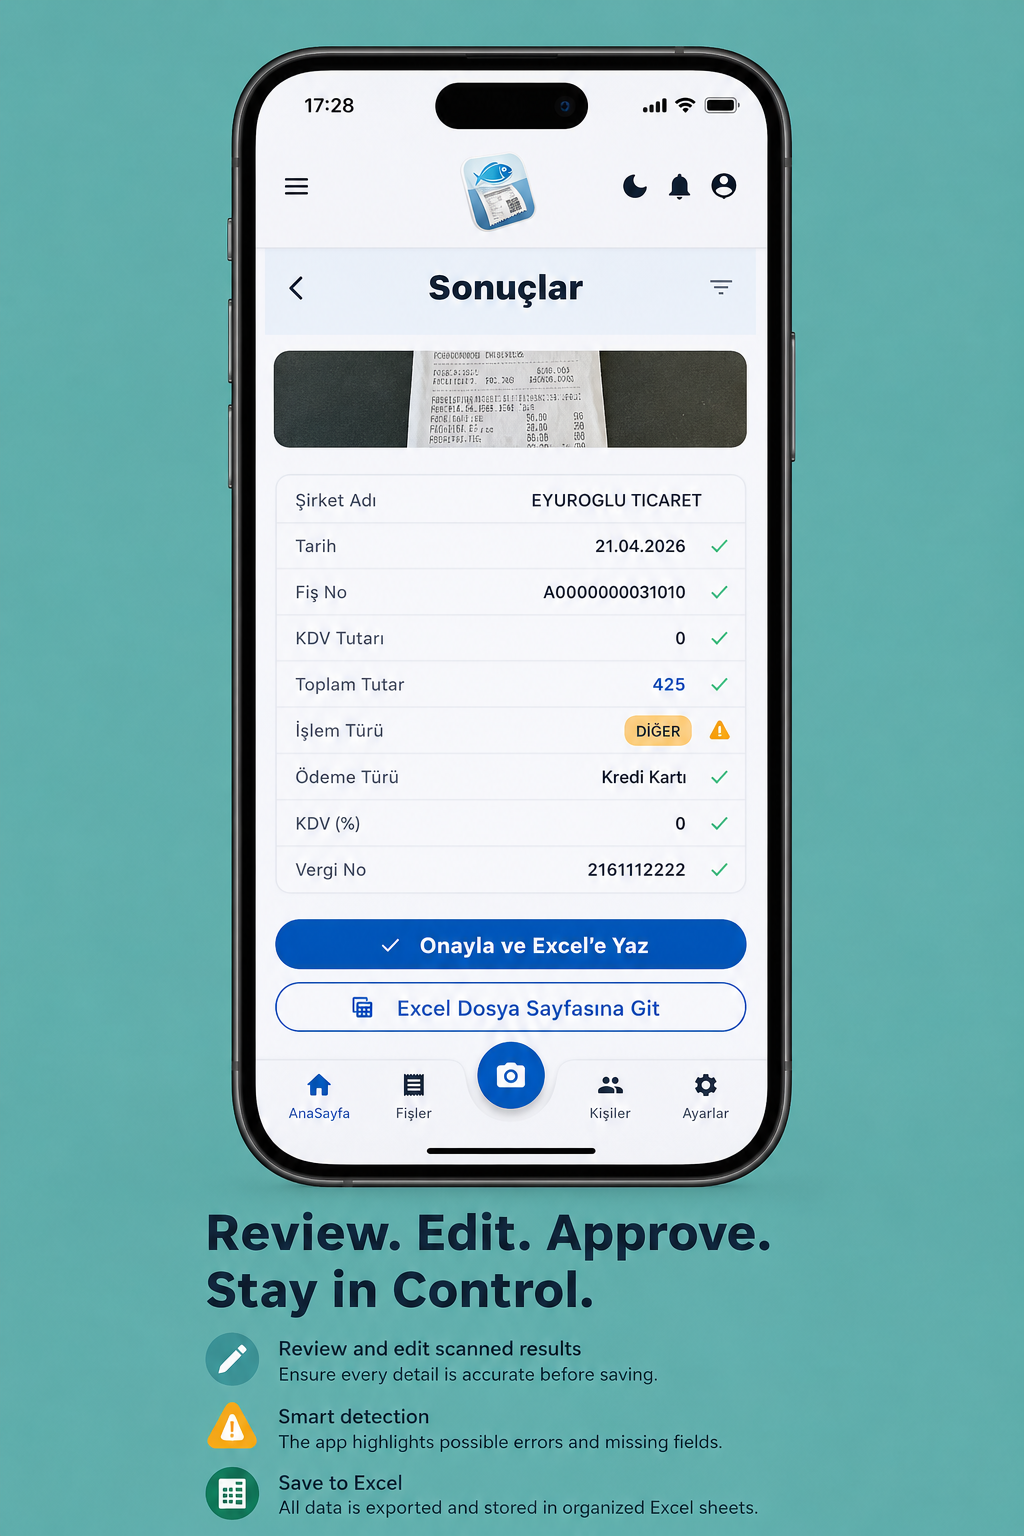
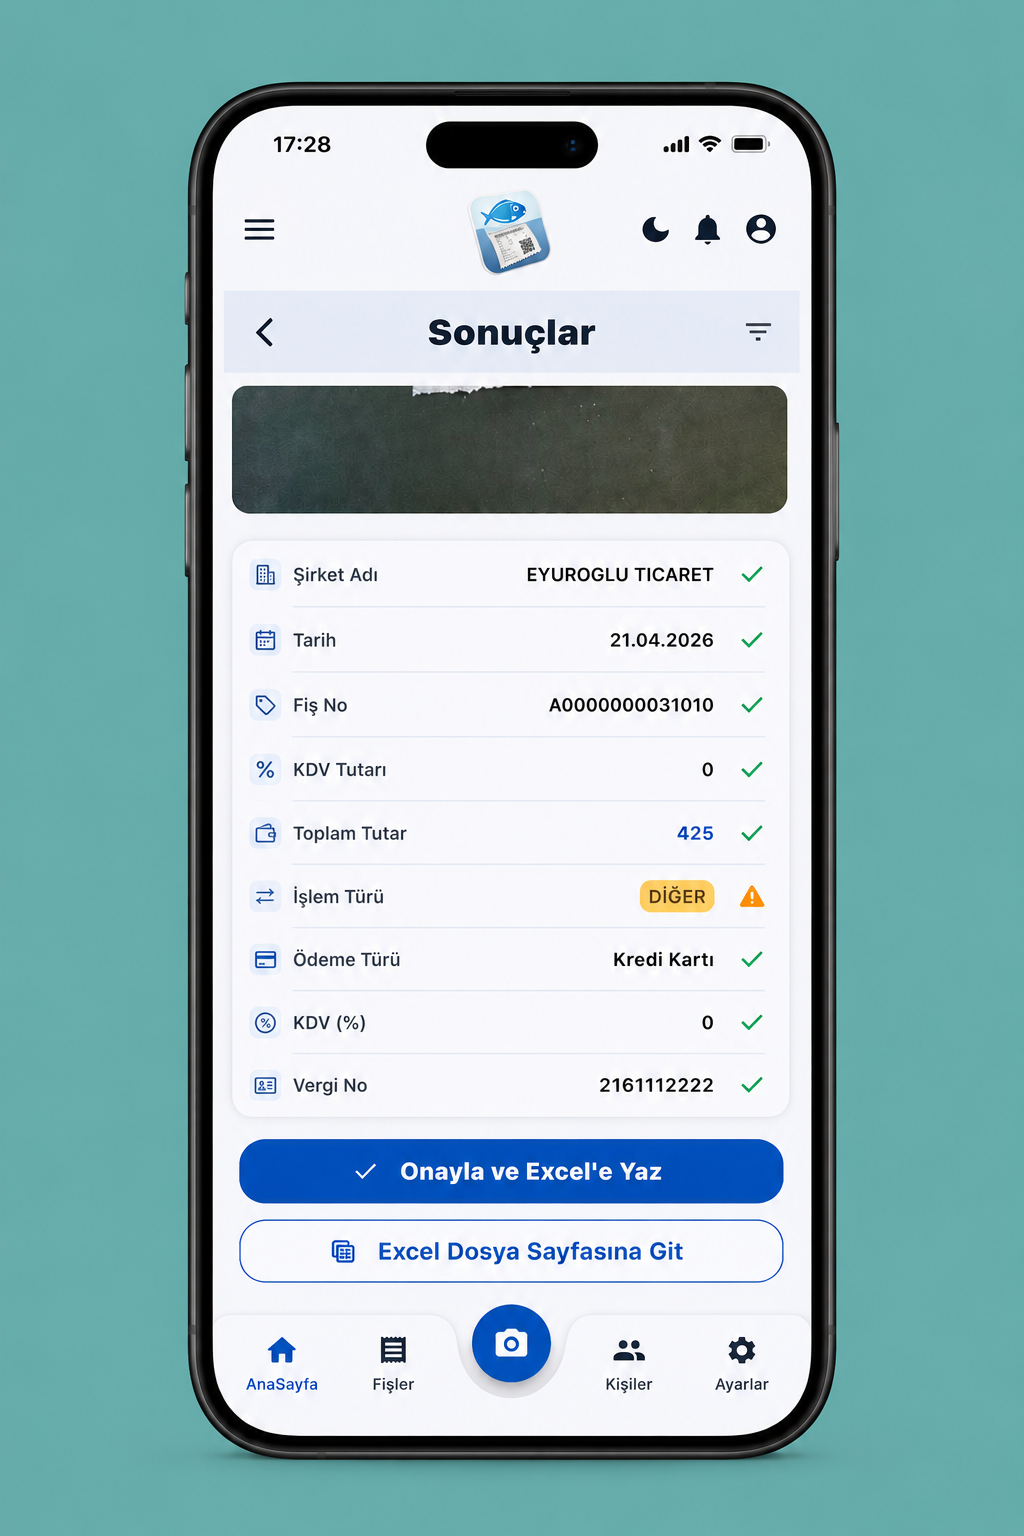
Updates

diff --git a/tr/index.html b/tr/index.html
@@ -126,6 +126,14 @@
       </div>
     </div>
     
+    <div class="glimpse-card">
+      <img src="/assets/screenshots/receipts.png" alt="Fiş Arşivleri">
+      <div class="glimpse-content">
+        <h4>Fiş Arşivleri</h4>
+        <p>Fiş takibini hızlı ve düzenli bir deneyime dönüştürün. My Fiş App, kayıtları aya göre gruplar ve kullanıcıların işletme adı, tarih ve toplam tutar için pratik arama filtreleri sunarak fiş keşfini manuel incelemeden çok daha hızlı hale getirir.</p>
+      </div>
+    </div>
+    
   </div>
 </section>
 

diff --git a/en/index.html b/en/index.html
@@ -126,6 +126,14 @@
       </div>
     </div>
     
+    <div class="glimpse-card">
+      <img src="/assets/screenshots/receipts.png" alt="Receipt Archives">
+      <div class="glimpse-content">
+        <h4>Receipt Archives</h4>
+        <p>Turn receipt tracking into a fast and organized experience. My Fiş App groups records by month and gives users practical search filters for business name, date, and total amount, making receipt discovery much quicker than manual review.</p>
+      </div>
+    </div>
+    
   </div>
 </section>
 
